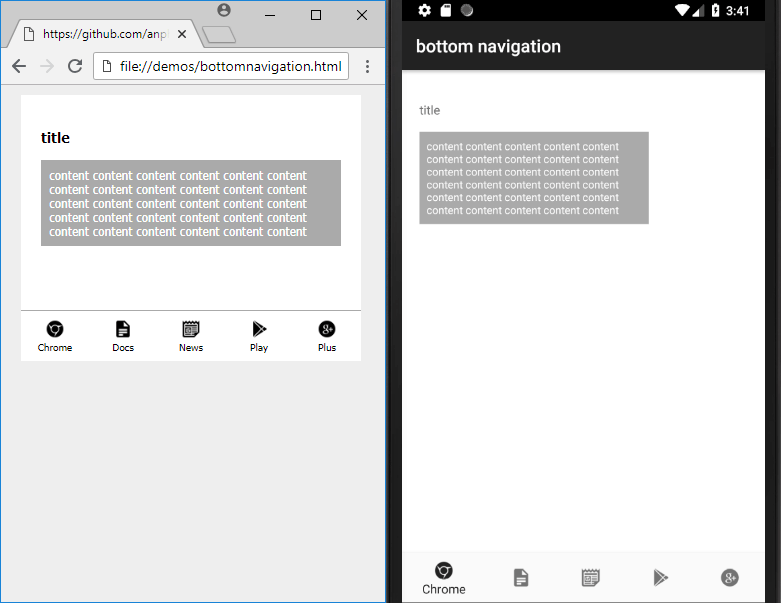
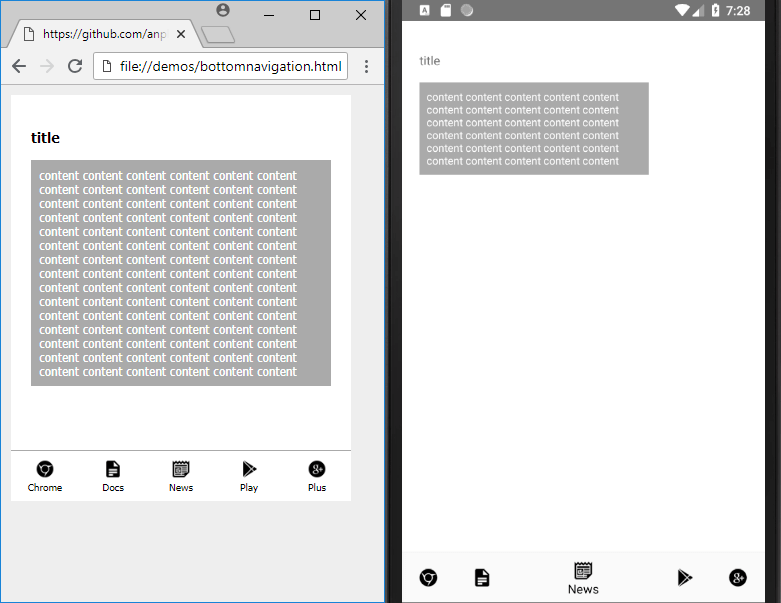
Named types for some any objects.

diff --git a/src/base/application.ts b/src/base/application.ts
@@ -1,4 +1,4 @@
-import { IExtension, Null, ObjectIndex, ObjectMap, PlainFile, StringMap, ViewData } from '../lib/types';
+import { ArrayIndex, IExtension, Null, ObjectIndex, ObjectMap, PlainFile, StringMap, ViewData } from '../lib/types';
 import Controller from './controller';
 import Resource from './resource';
 import Node from './node';
@@ -258,7 +258,7 @@ export default class Application<T extends Node, U extends NodeList<T>> {
             }
         }
         if (this.cache.list.length > 0) {
-            const preAlignment = {};
+            const preAlignment: ObjectIndex<ObjectMap<Null<string>>> = {};
             this.cache.list.forEach(node => {
                 const element = node.element;
                 preAlignment[node.id] = {};
@@ -336,12 +336,10 @@ export default class Application<T extends Node, U extends NodeList<T>> {
                 }
             });
             this.cache.list.forEach(node => {
-                if (node.hasElement) {
-                    const style = preAlignment[node.id];
-                    if (style != null) {
-                        for (const attr in style) {
-                            node.element.style[attr] = style[attr];
-                        }
+                const style = preAlignment[node.id];
+                if (style != null) {
+                    for (const attr in style) {
+                        node.element.style[attr] = style[attr];
                     }
                 }
             });
@@ -353,9 +351,10 @@ export default class Application<T extends Node, U extends NodeList<T>> {
             this.cache.list.forEach(node => {
                 if (node.hasElement) {
                     let i = 0;
-                    Array.from(node.element.childNodes).forEach((element: any) => {
-                        if (element.__node != null && (element.__node.parent.element === node.element)) {
-                            element.__node.parentIndex = i++;
+                    Array.from(node.element.childNodes).forEach((element: HTMLElement) => {
+                        const child = (<T> (<any> element).__node);
+                        if (child && child.parent.element === node.element) {
+                            child.parentIndex = i++;
                         }
                     });
                     sortAsc(node.children, 'parentIndex');
@@ -370,8 +369,8 @@ export default class Application<T extends Node, U extends NodeList<T>> {
     public createLayoutXml() {
         let output = `<?xml version="1.0" encoding="utf-8"?>\n{:0}`;
         let empty = true;
-        const mapX: any = [];
-        const mapY: any = [];
+        const mapX: ArrayIndex<ObjectIndex<T[]>> = [];
+        const mapY: ArrayIndex<ObjectIndex<T[]>> = [];
         const extensions = this.extensions;
         this.cache.list.forEach(node => {
             const x = Math.floor(node.linear.left);
@@ -624,7 +623,7 @@ export default class Application<T extends Node, U extends NodeList<T>> {
                 }
             }
         });
-        const template = {};
+        const template: StringMap = {};
         for (const id in this.insert) {
             template[id] = this.insert[id].join('\n');
         }

diff --git a/demos/bottomnavigation.html b/demos/bottomnavigation.html
@@ -75,6 +75,10 @@
                 bottomnavigation: {
                     android: {
                         background: '?android:attr/windowBackground'
+                    },
+                    app: {
+                        itemIconTint: '#000000',
+                        itemTextColor: '#000000'
                     }
                 },
                 resource: {
@@ -83,7 +87,7 @@
                         file: 'androme.widget.bottomnavigation.xml'
                     },
                     appTheme: 'AppTheme',
-                    parentTheme: 'Theme.AppCompat.Light.DarkActionBar'
+                    parentTheme: 'Theme.AppCompat.Light.NoActionBar'
                 }
             });
             androme.parseDocument('androme_ui').then(function() {
@@ -104,6 +108,12 @@
         <div style="width: 300px; font-size: 12px; padding: 20px;">
             <h3>title</h2>
             <div style="color: #fff; background-color: #aaa; padding: 8px;">
+                content content content content content content content content content content
+                content content content content content content content content content content
+                content content content content content content content content content content
+                content content content content content content content content content content
+                content content content content content content content content content content
+                content content content content content content content content content content
                 content content content content content content content content content content
                 content content content content content content content content content content
                 content content content content content content content content content content

diff --git a/demos-dev/bottomnavigation.html b/demos-dev/bottomnavigation.html
@@ -46,6 +46,10 @@
                 bottomnavigation: {
                     android: {
                         background: '?android:attr/windowBackground'
+                    },
+                    app: {
+                        itemIconTint: '#000000',
+                        itemTextColor: '#000000'
                     }
                 },
                 resource: {
@@ -54,7 +58,7 @@
                         file: 'androme.widget.bottomnavigation.xml'
                     },
                     appTheme: 'AppTheme',
-                    parentTheme: 'Theme.AppCompat.Light.DarkActionBar'
+                    parentTheme: 'Theme.AppCompat.Light.NoActionBar'
                 }
             });
             androme.parseDocument('androme_ui').then(function() {
@@ -75,6 +79,12 @@
         <div style="width: 300px; font-size: 12px; padding: 20px;">
             <h3>title</h2>
             <div style="color: #fff; background-color: #aaa; padding: 8px;">
+                content content content content content content content content content content
+                content content content content content content content content content content
+                content content content content content content content content content content
+                content content content content content content content content content content
+                content content content content content content content content content content
+                content content content content content content content content content content
                 content content content content content content content content content content
                 content content content content content content content content content content
                 content content content content content content content content content content

diff --git a/src/base/extension.ts b/src/base/extension.ts
@@ -1,4 +1,4 @@
-import { ExtensionDependency, ExtensionResult, IExtension, Null, ObjectIndex, ObjectMap, StringMap } from '../lib/types';
+import { ArrayIndex, ExtensionDependency, ExtensionResult, IExtension, Null, ObjectIndex, ObjectMap, StringMap } from '../lib/types';
 import Application from './application';
 import Node from './node';
 import NodeList from './nodelist';
@@ -90,11 +90,11 @@ export default abstract class Extension<T extends Node, U extends NodeList<T>> i
         return false;
     }
 
-    public processNode(mapX?: ObjectIndex<ObjectIndex<T[]>>, mapY?: ObjectIndex<ObjectIndex<T[]>>): ExtensionResult {
+    public processNode(mapX?: ArrayIndex<ObjectIndex<T[]>>, mapY?: ArrayIndex<ObjectIndex<T[]>>): ExtensionResult {
         return { xml: '' };
     }
 
-    public processChild(mapX?: ObjectIndex<ObjectIndex<T[]>>, mapY?: ObjectIndex<ObjectIndex<T[]>>): ExtensionResult {
+    public processChild(mapX?: ArrayIndex<ObjectIndex<T[]>>, mapY?: ArrayIndex<ObjectIndex<T[]>>): ExtensionResult {
         return { xml: '' };
     }
 
@@ -114,14 +114,14 @@ export default abstract class Extension<T extends Node, U extends NodeList<T>> i
         return;
     }
 
-    public getData(): StringMap {
+    public getData() {
         const element = this.element;
-        const result = {};
+        const result: StringMap = {};
         if (element != null) {
             const prefix = convertCamelCase(this.name, '\\.');
             for (const attr in element.dataset) {
                 if (attr.length > prefix.length && attr.startsWith(prefix)) {
-                    result[capitalize(attr.substring(prefix.length), false)] = element.dataset[attr];
+                    result[capitalize(attr.substring(prefix.length), false)] = (<string> element.dataset[attr]);
                 }
             }
         }

diff --git a/src/extension/lib/util.ts b/src/extension/lib/util.ts
@@ -19,32 +19,26 @@ export function formatResource(options: {}) {
                                         value = Resource.addString(value);
                                         if (value !== '') {
                                             object[attr] = `@string/${value}`;
+                                            continue;
                                         }
                                     }
                                 }
                                 break;
-                            case 'background':
-                                const hex = parseHex(value);
-                                if (hex !== '') {
-                                    object[attr] = `@color/${Resource.addColor(hex)}`;
-                                    break;
-                                }
                             case 'src':
                                 if (/^\w+:\/\//.test(value)) {
                                     value = Resource.addImage({ 'mdpi': value });
                                     if (value !== '') {
                                         object[attr] = `@drawable/${value}`;
+                                        continue;
                                     }
                                 }
                                 break;
                         }
                         break;
                 }
-                if (attr.toLowerCase().indexOf('color') !== -1) {
-                    const hex = parseHex(value);
-                    if (hex !== '') {
-                        object[attr] = `@color/${Resource.addColor(hex)}`;
-                    }
+                const hex = parseHex(value);
+                if (hex !== '') {
+                    object[attr] = `@color/${Resource.addColor(hex)}`;
                 }
             }
         }

diff --git a/src/lib/types.ts b/src/lib/types.ts
@@ -22,8 +22,8 @@ export interface IExtension {
     init(element: HTMLElement): boolean;
     afterInit(internal?: boolean): void;
     condition(): void;
-    processNode(mapX?: ObjectIndex<ObjectIndex<Node[]>>, mapY?: ObjectIndex<ObjectIndex<Node[]>>): ExtensionResult;
-    processChild(mapX?: ObjectIndex<ObjectIndex<Node[]>>, mapY?: ObjectIndex<ObjectIndex<Node[]>>): ExtensionResult;
+    processNode(mapX?: ArrayIndex<ObjectIndex<Node[]>>, mapY?: ArrayIndex<ObjectIndex<Node[]>>): ExtensionResult;
+    processChild(mapX?: ArrayIndex<ObjectIndex<Node[]>>, mapY?: ArrayIndex<ObjectIndex<Node[]>>): ExtensionResult;
     afterRender(): void;
     insert(): void;
     afterInsert(): void;
@@ -113,16 +113,11 @@ export interface ObjectMap<T> {
 
 export interface ObjectIndex<T> {
     [key: number]: T;
-    length?: number;
-}
-
-export interface ArrayMap<T> {
-    [key: string]: T[];
 }
 
 export interface ArrayIndex<T> {
-    [key: number]: T[];
-    length?: number;
+    [key: number]: T;
+    length: number;
 }
 
 export interface ViewData<T> {

diff --git a/src/android/resource-view.ts b/src/android/resource-view.ts
@@ -1,4 +1,4 @@
-import { ArrayMap, BorderAttribute, Null, ObjectMap, ResourceMap, StringMap, ViewData } from '../lib/types';
+import { BorderAttribute, Null, ObjectMap, ResourceMap, StringMap, ViewData } from '../lib/types';
 import Resource from '../base/resource';
 import File from '../base/file';
 import View from './view';
@@ -384,7 +384,7 @@ export default class ResourceView<T extends View> extends Resource<T> {
         super.setOptionArray();
         this.cache.list.filter(node => node.tagName === 'SELECT').forEach(node => {
             if (!includesEnum(node.excludeResource, NODE_RESOURCE.OPTION_ARRAY)) {
-                const stored: ArrayMap<string> = (<any> node.element).__optionArray;
+                const stored: ObjectMap<string[]> = (<any> node.element).__optionArray;
                 const method = METHOD_ANDROID['optionArray'];
                 let result: string[] = [];
                 if (stored.stringArray != null) {

diff --git a/src/base/file.ts b/src/base/file.ts
@@ -1,4 +1,4 @@
-import { PlainFile, ResourceMap, ViewData } from '../lib/types';
+import { PlainFile, ResourceMap, StringMap, ViewData } from '../lib/types';
 import Node from './node';
 import { lastIndexOf, hasValue, trim } from '../lib/util';
 
@@ -21,8 +21,8 @@ export default abstract class File<T extends Node> {
     }
 
     public abstract saveAllToDisk(data: ViewData<T>): void;
-    public abstract layoutAllToXml(data: ViewData<T>, saveToDisk?: boolean): {};
-    public abstract resourceAllToXml(saveToDisk?: boolean): {};
+    public abstract layoutAllToXml(data: ViewData<T>, saveToDisk?: boolean): StringMap;
+    public abstract resourceAllToXml(saveToDisk?: boolean): StringMap;
     public abstract resourceStringToXml(saveToDisk?: boolean): string;
     public abstract resourceStringArrayToXml(saveToDisk?: boolean): string;
     public abstract resourceFontToXml(saveToDisk?: boolean): string;

diff --git a/src/android/viewcontroller.ts b/src/android/viewcontroller.ts
@@ -1,4 +1,4 @@
-import { ArrayIndex, Null, ObjectMap, Point, StringMap, ViewData } from '../lib/types';
+import { Null, ObjectIndex, ObjectMap, Point, StringMap, ViewData } from '../lib/types';
 import Controller from '../base/controller';
 import NodeList from '../base/nodelist';
 import Resource from '../base/resource';
@@ -346,7 +346,7 @@ export default class ViewController<T extends View, U extends ViewList<T>> exten
                                 case 'column-reverse':
                                 sorted.reverse();
                             }
-                            const map: ArrayIndex<T> = {};
+                            const map: ObjectIndex<T[]> = {};
                             const levels: number[] = [];
                             sorted.forEach(item => {
                                 const y = item.linear.top;

diff --git a/src/android/extension/widget/menu.ts b/src/android/extension/widget/menu.ts
@@ -1,4 +1,4 @@
-import { ExtensionResult, IExtension, ObjectMap } from '../../../lib/types';
+import { ExtensionResult, IExtension, ObjectMap, StringMap } from '../../../lib/types';
 import Resource from '../../../base/resource';
 import Nav from '../../../extension/nav';
 import View from '../../view';
@@ -62,7 +62,7 @@ export default class Menu<T extends View> extends Nav {
         node.renderDepth = parent.renderDepth + 1;
         node.renderParent = true;
         node.excludeResource |= NODE_RESOURCE.ALL;
-        const options: ObjectMap<any> = { android: {}, app: {} };
+        const options: ObjectMap<StringMap> = { android: {}, app: {} };
         const children = (<HTMLElement[]> Array.from(node.element.children));
         let nodeName = VIEW_NAVIGATION.ITEM;
         let title = '';

diff --git a/src/extension/grid.ts b/src/extension/grid.ts
@@ -1,4 +1,4 @@
-import { ExtensionResult, ObjectIndex } from '../lib/types';
+import { ArrayIndex, ExtensionResult, ObjectIndex } from '../lib/types';
 import Extension from '../base/extension';
 import Node from '../base/node';
 import NodeList from '../base/nodelist';
@@ -21,7 +21,7 @@ export default class Grid extends Extension<T, U> {
         );
     }
 
-    public processNode(mapX: ObjectIndex<ObjectIndex<T[]>>, mapY: ObjectIndex<ObjectIndex<T[]>>): ExtensionResult {
+    public processNode(mapX: ArrayIndex<ObjectIndex<T[]>>, mapY: ArrayIndex<ObjectIndex<T[]>>): ExtensionResult {
         const node = this.node;
         const parent = (<T> this.parent);
         let xml = '';

diff --git a/src/base/controller.ts b/src/base/controller.ts
@@ -1,17 +1,13 @@
-import { Null, ViewData } from '../lib/types';
+import { Null, ObjectIndex, ViewData } from '../lib/types';
 import Node from './node';
 import NodeList from './nodelist';
 import { hasValue, repeat } from '../lib/util';
 
-interface ViewAppend {
-    [id: number]: string[];
-}
-
 export default abstract class Controller<T extends Node, U extends NodeList<T>> {
     public cache: U;
 
-    private before: ViewAppend = {};
-    private after: ViewAppend = {};
+    private before: ObjectIndex<string[]> = {};
+    private after: ObjectIndex<string[]> = {};
 
     constructor() {
     }
